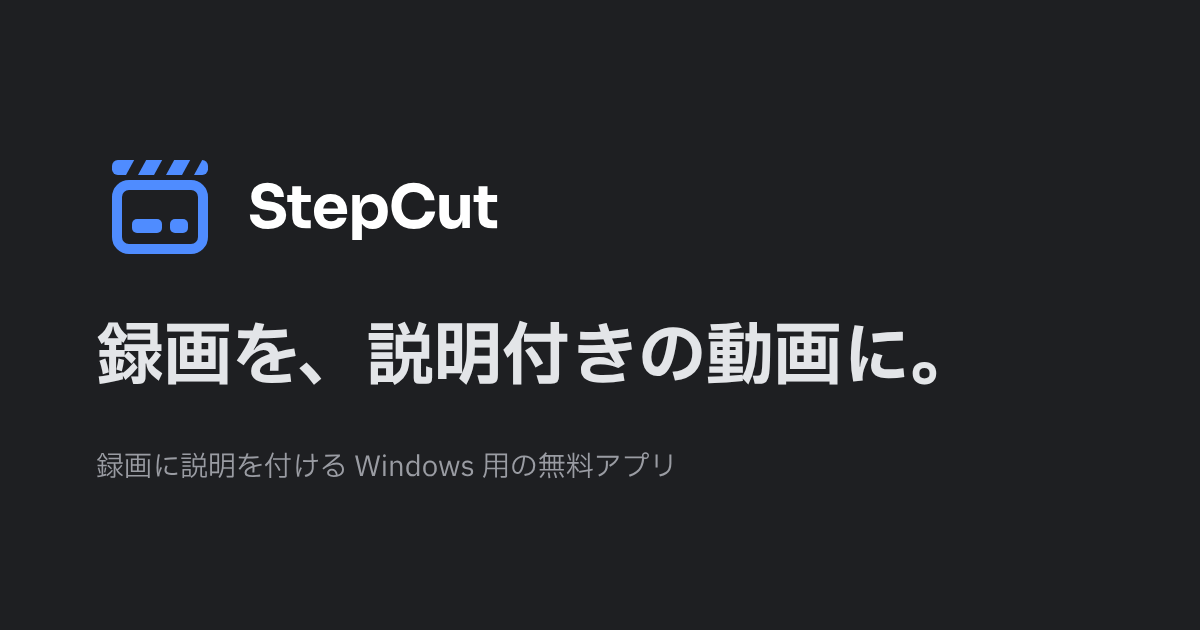
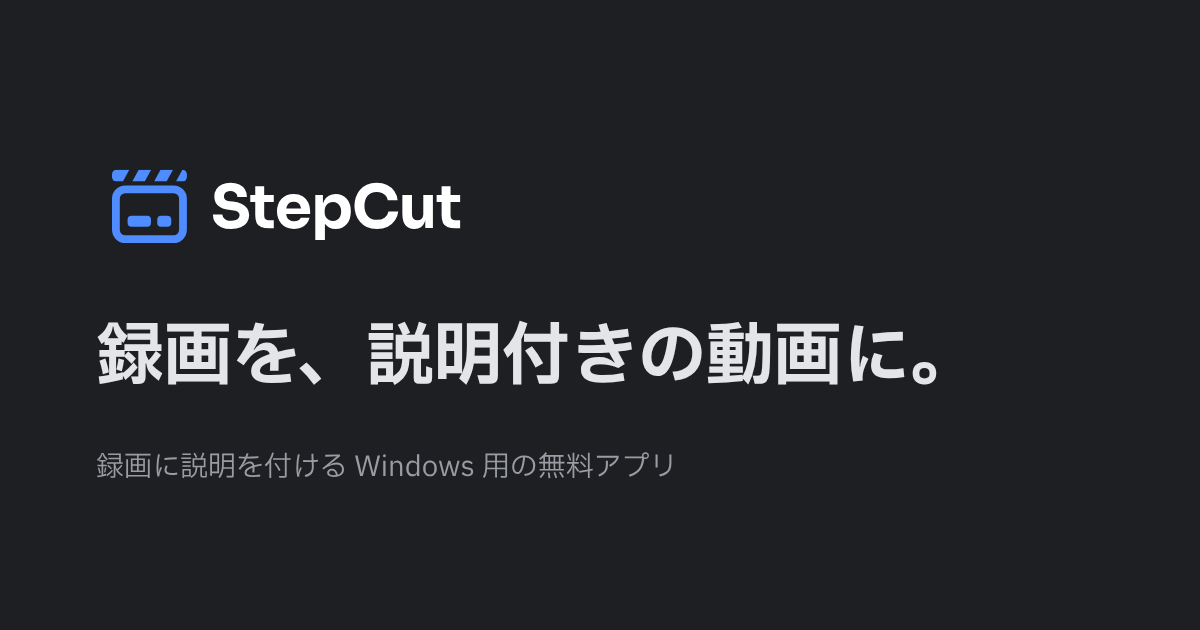
ロゴ: 並べた形のマークを 78% に縮め、文字との隙間を詰める。OGP 画像を作り直す
Claude-Session: https://claude.ai/code/session_01GqNxRDH8hn3X4MEpNWXBmt

Changed region(s): [[0.0925, 0.2413, 0.4317, 0.4222]]

diff --git a/site/public/ja/index.html b/site/public/ja/index.html
@@ -45,7 +45,7 @@
 
     <header class="nav">
       <div class="wrap">
-        <a href="/ja/"><img class="brand" src="/assets/logo.svg" alt="StepCut" width="112" height="34" /></a>
+        <a href="/ja/"><img class="brand" src="/assets/logo.svg" alt="StepCut" width="102" height="34" /></a>
         <ul>
           <li><a href="#howto">使い方</a></li>
           <li><a href="#features">付けられるもの</a></li>
@@ -62,7 +62,7 @@
       <section class="hero">
         <div class="wrap">
           <div>
-            <img class="hero-logo" src="/assets/logo.svg" alt="StepCut" width="320" height="98" />
+            <img class="hero-logo" src="/assets/logo.svg" alt="StepCut" width="293" height="98" />
             <span class="pill">無料・オープンソース · Windows 10 / 11</span>
             <h1><span>録画を、</span><span>説明付きの動画に。</span></h1>
             <p class="lead">

diff --git a/site/public/index.html b/site/public/index.html
@@ -61,7 +61,7 @@
 
     <header class="nav">
       <div class="wrap">
-        <a href="/"><img class="brand" src="/assets/logo.svg" alt="StepCut" width="112" height="34" /></a>
+        <a href="/"><img class="brand" src="/assets/logo.svg" alt="StepCut" width="102" height="34" /></a>
         <ul>
           <li><a href="#howto">How it works</a></li>
           <li><a href="#features">What you can add</a></li>
@@ -78,7 +78,7 @@
       <section class="hero">
         <div class="wrap">
           <div>
-            <img class="hero-logo" src="/assets/logo.svg" alt="StepCut" width="320" height="98" />
+            <img class="hero-logo" src="/assets/logo.svg" alt="StepCut" width="293" height="98" />
             <span class="pill">Free and open source · Windows 10 / 11</span>
             <h1><span>Turn recordings</span> <span>into videos that explain.</span></h1>
             <p class="lead">

diff --git a/site/public/404.html b/site/public/404.html
@@ -11,7 +11,7 @@
   <body>
     <!-- 英語と日本語の両方を載せる(どちらのページから来たか分からないため) -->
     <div class="wrap notfound">
-      <a href="/"><img class="brand" src="/assets/logo.svg" alt="StepCut" width="131" height="40" /></a>
+      <a href="/"><img class="brand" src="/assets/logo.svg" alt="StepCut" width="120" height="40" /></a>
       <h1>Page not found</h1>
       <p><a href="/">Back to the StepCut home page</a></p>
       <h1 lang="ja">ページが見つかりません</h1>

diff --git a/site/public/styles.css b/site/public/styles.css
@@ -109,7 +109,7 @@ section {
 }
 
 .brand {
-  width: 112px;
+  width: 102px;
   height: 34px;
 }
 
@@ -258,7 +258,7 @@ section {
 
 .hero-logo {
   /* ロゴの文字の高さを h1 の和文の字面(約 35px)にそろえる */
-  width: 320px;
+  width: 293px;
   height: 98px;
   margin: 0 0 16px -8px;
 }
@@ -729,7 +729,7 @@ details p {
   }
 
   .hero-logo {
-    width: 236px;
+    width: 216px;
     height: 72px;
     margin-left: -6px;
   }

diff --git a/docs/decisions/20261112-landing-page.md b/docs/decisions/20261112-landing-page.md
@@ -17,6 +17,7 @@ tags: [infra, web]
 - 配信は Cloudflare Workers の静的アセット。Worker 名 `stepcut-lp`、Custom Domain `stepcut.mu-777.dev`(`site/wrangler.toml`)
 - デプロイは Cloudflare の Workers Builds(Git 連携)。main への push で、`site/` に変更があれば `npx wrangler deploy` が走る。ルートディレクトリ・watch paths は Cloudflare のダッシュボード側の設定
 - 見た目はアプリの配色(`--bg` `#1e1f22`、`--panel`、`--line`、`--accent` `#4f8cff`)に合わせ、ブラウザの設定によらず暗い地で固定する。雰囲気は同じ作者の [DayGlassBar のページ](https://mu-777.github.io/dayglassbar/)にそろえる(細い線のナビ、丸いバッジ、光る青のボタン)
+- 名前を目立たせる: ヒーローの見出しの上にロゴを置く(PC は高さ 98px で、ロゴの文字の高さを h1 の和文の字面にそろえる。h1 は最大 40px。820px 以下は高さ 72px)。ナビは画面上端に固定する(`position: sticky`、半透明の地)。ページの上端でナビとヒーローにロゴが 2 つ並ぶのは可とする
 - 構成: ヒーロー(左に文、右に動画)→ 機能を絞っていること(編集画面、「ないもの / その代わり」の対、手間が減る点 2 つ)→ 使い方(動画と 4 つの作業)→ 付けられるもの(9 つを小さな動画と名前、ひとことで並べる)→ 使いみち(操作の手順・製品のデモ・資料の解説の 3 例。例ごとに、できた動画と編集画面を並べる)→ 事実の帯(オフライン・無料・AI での編集 β)→ FAQ → ダウンロード
 - 何のツールかは、用途ではなく、することで言う: 「録画を、説明付きの動画に」。説明の手段はテロップ・読み上げ・ズーム・ポインター・図形。用途(操作の手順、製品のデモ、資料の解説)は例として添える
 - 「何を付けられるか」は、付けられるもの 9 つ(テロップ・読み上げ・ズーム・ポインター・蛍光ペン・四角・矢印・テキスト・画像)を、同じ場面に 1 つずつ付けた小さな動画と、名前・ひとことで見せる。読み上げは、テロップと同じ動画に「音が出ている」印を重ねる(動画は音声なしで載せるため)。そのうえで、使いみちの例の中で使われている様子を見せる。例ごとに使う機能を分け、3 例で一通りになるようにする(手順: 切り分け・ポインター・四角・早送り / デモ: ズーム・止めて見せる・テキスト・画像・フェード / 資料: 画像のステップ・蛍光ペン・矢印)。早送り・保持・フェードは使いみちの例で見せ、読みの辞書・SRT・背景はページに載せない
@@ -59,6 +60,8 @@ tags: [infra, web]
 - **「社内の手順書に使える理由」という節** — 社内の手順書のために作っているわけではない。オフライン・無料は、用途を付けずに事実の帯に置く
 - **「何でもはできません。そのぶん、迷いません。」のような言い切りの見出し** — 仰々しい。参考にした文面は [Orito](https://www.orito.ai/)
 - **項目を増やす(取り消し・やり直し、並べ替え、解像度、「書き出してからの見直しが不要」など)** — どの動画編集ツールにもある。載せない
+- **名前を h1 に入れる(「StepCut で、録画を…」)/ バッジに名前を入れる / ダウンロードの節だけ強める** — 見出しが長くなる、または効果が弱い。ユーザーがヒーローのロゴ + ナビの固定を選んだ
+- **ヒーローが見えている間はナビのロゴを隠す** — JS と動きが増える。ユーザーが 2 つ並んでよいと判断
 - **ヒーローの機能タブ、利用者の声・スター数、作品集、料金表** — モードも実績も作例もまだなく、無料でアカウントもない
 - **CSS で描いた仮の絵のまま載せる** — StepCut で作った実物の方が、アプリの見本になる
 - **日本語を `/` のままにし、英語を `/en/` に置く** — 今のリンクは変わらないが、UI が英語を主にしている(NF-07)ことと合わない。ユーザーが英語を `/` にする方を選んだ

diff --git a/docs/decisions/20261112-logo.md b/docs/decisions/20261112-logo.md
@@ -1,7 +1,7 @@
 ---
 status: accepted
 date: 2026-11-12
-updated: 2026-11-13
+updated: 2026-11-16
 tags: [design, brand]
 ---
 
@@ -15,6 +15,7 @@ tags: [design, brand]
 - 色: アプリの `--accent` と同じ `#4f8cff` の 1 色。明るい地でも色は変えない
 - 地: 付けない(アプリのアイコンも地なし)。地が要る場面(OGP 画像、将来の macOS 版など)では、マークの大きさを変えずに白地を敷く(`stepcut-mark-on-white.svg`)
 - 文字: 「StepCut」を Sora の太字(700)、単色(暗い地では白、明るい地では `#1e1f22`)。SVG ではアウトラインにし、フォントのファイルは置かない
+- マークと文字を並べた形(`stepcut-logo-on-dark.svg` / `on-light.svg`、紹介ページの `site/public/assets/logo.svg`): マークを 64 のマス目の 78% に縮め、マークと文字の隙間を 13 にする。マークの上下が文字の上下とほぼそろう。viewBox は 191.5×64(文字の大きさは高さで決まり、縮める前と同じ)。変えたら `node scripts/make-og.cjs` で OGP 画像も作り直す
 - アプリのアイコン: `assets/logo/stepcut-icon.svg`(余白を詰めた版)から `node scripts/make-icon.cjs` で `build/icon.ico`(16〜256px)と `build/icon.png`(256px)を作り、コミットする。ICO は exe・インストーラー(`package.json` の `win.icon`)と Windows のウィンドウ、PNG はそれ以外の OS のウィンドウ(`src/main/index.ts` の `BrowserWindow` の `icon`)に使う
 - README: 先頭の見出しにロゴを置き、GitHub のテーマに合わせて `<picture>` で on-dark / on-light を切り替える
 - アプリの画面の中(ツールバー・空の画面など)にはロゴを置かない。ウィンドウのタイトルバーに出るので足りる
@@ -33,6 +34,7 @@ tags: [design, brand]
 - **棒を太く(高さ 11)/ さらに細く(6)** — 太いと棒が画面より重く見える。6 では 24px 以下で縞が点線になる
 - **青い地 + 白のマーク / 暗い地 + 青** — 16px での見やすさのために検討したが、ユーザーが地なしで足りると判断。Windows では地なしが本流
 - **アイコンだけ濃い青 `#3f7df5`**(明るいタスクバーで 3.46) — 色が 2 種類になる。差は 0.1 なので統一を優先
+- **並べた形でマークを 100%(隙間 21)/ 85%(隙間 15)/ 70%(隙間 12)** — 100% は紹介ページで大きく出すとマークが文字より強く見えた。85% もまだ強い。70% は小さいサイズで棒の縞がつぶれる。ユーザーが 78% を選んだ
 - **文字の「Cut」だけ青 / 小文字 + オレンジの切れ目** — ユーザーが単色の太字を選んだ
 
 ## 前提と再検討の条件
